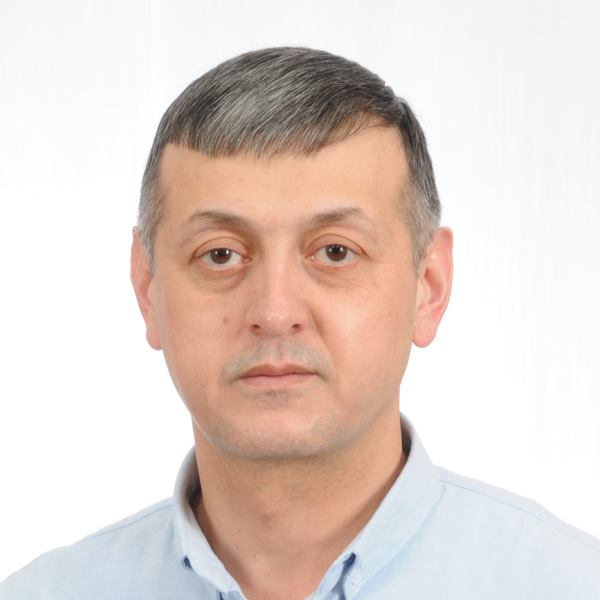
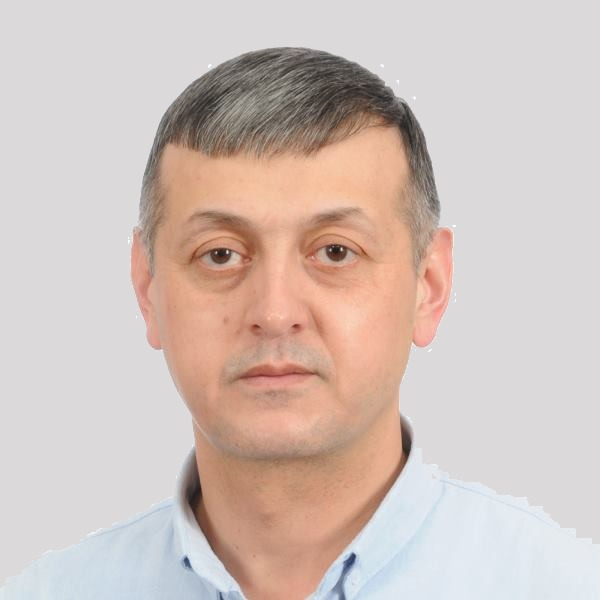
Fix Alisher's photo background and center team cards in their columns
- Alisher's studio backdrop was near-white while the other three team
  photos have a gray/beige backdrop, so his blended into the white
  page. Recolored his background to match Farkhad's gray tone
  (sharp: pixels matched by brightness + low saturation + neutral
  blue-bias, which cleanly excludes his light-blue shirt)
- Team cards (photo now capped at 452px, narrower than the grid
  column) were left-aligned, giving very uneven left/right margins
  (88px vs 227px). Centered each .person card's content in its column
  — now ~375px vs ~390px

diff --git a/assets/css/styles.css b/assets/css/styles.css
@@ -959,7 +959,16 @@
     line-height: var(--leading-snug);
   }
 
-  /* ---------- Команда ---------- */
+  /* ---------- Команда ----------
+     Фото уже уменьшены (max-width: 452px) относительно широкой
+     grid-колонки — центрируем карточку в колонке, иначе слева и
+     справа получаются разные отступы. */
+  .person {
+    display: flex;
+    flex-direction: column;
+    align-items: center;
+    text-align: center;
+  }
   .person__media {
     aspect-ratio: 1 / 1;
     max-width: 452px;
